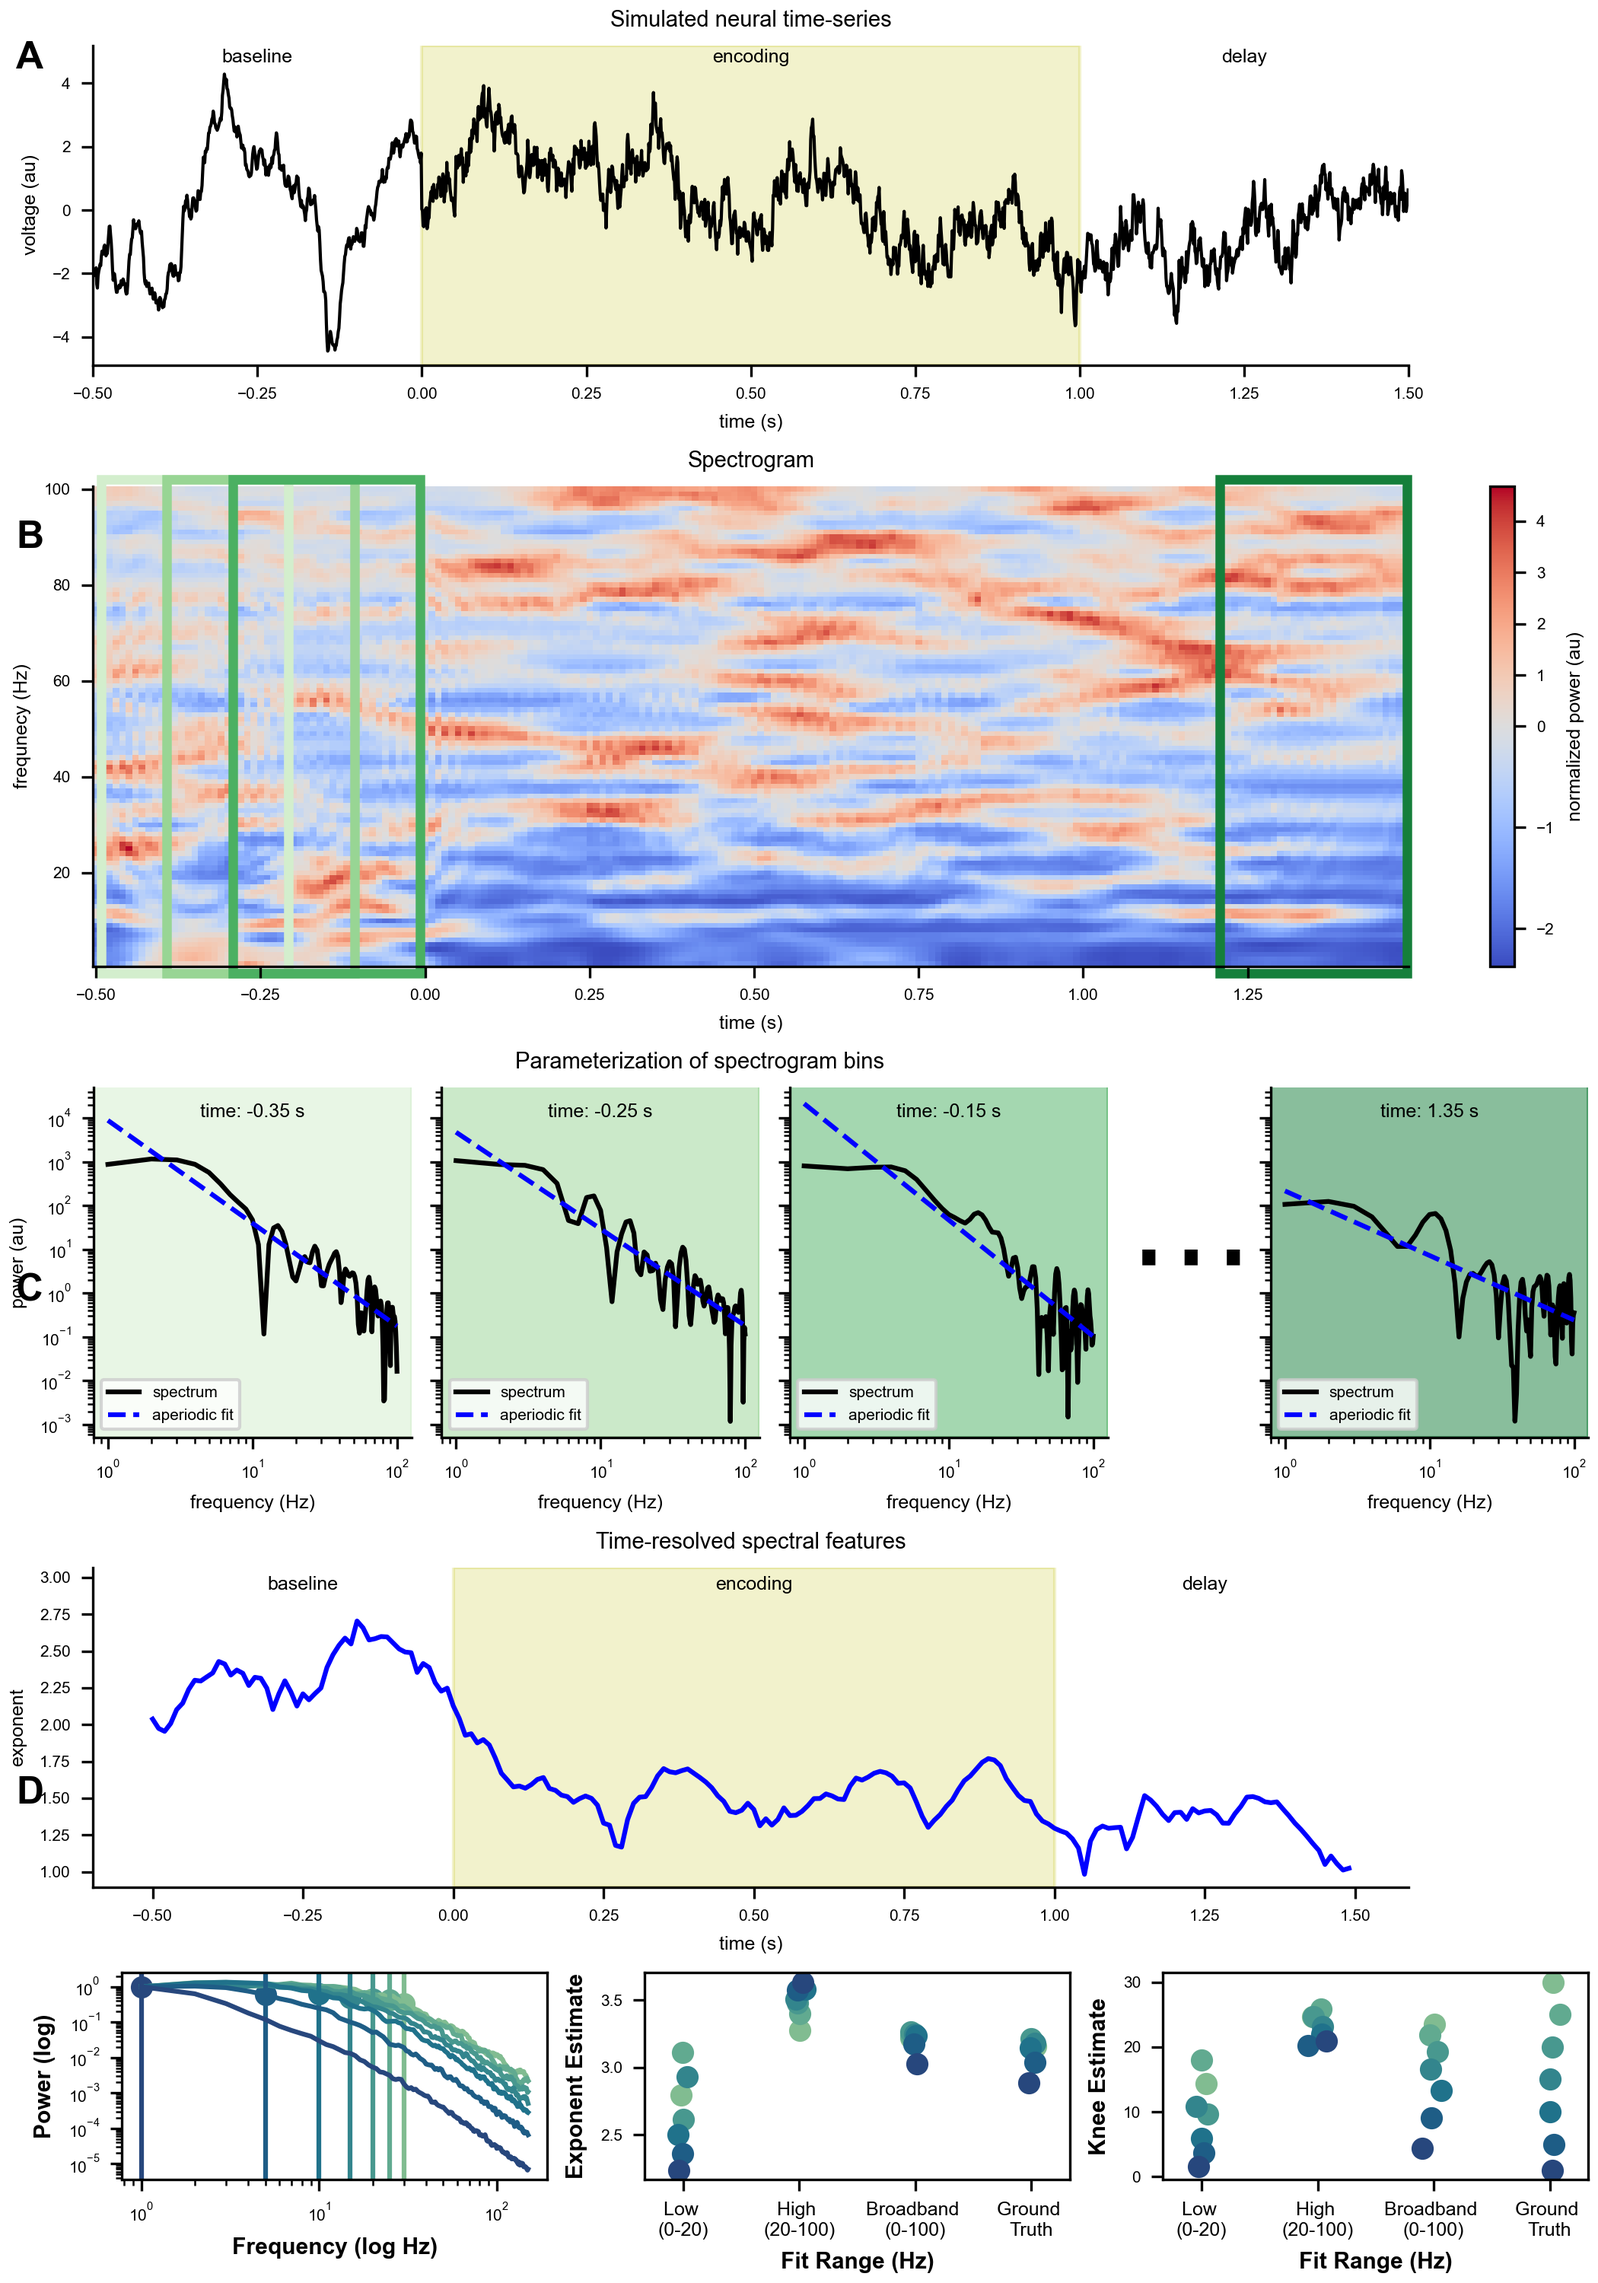
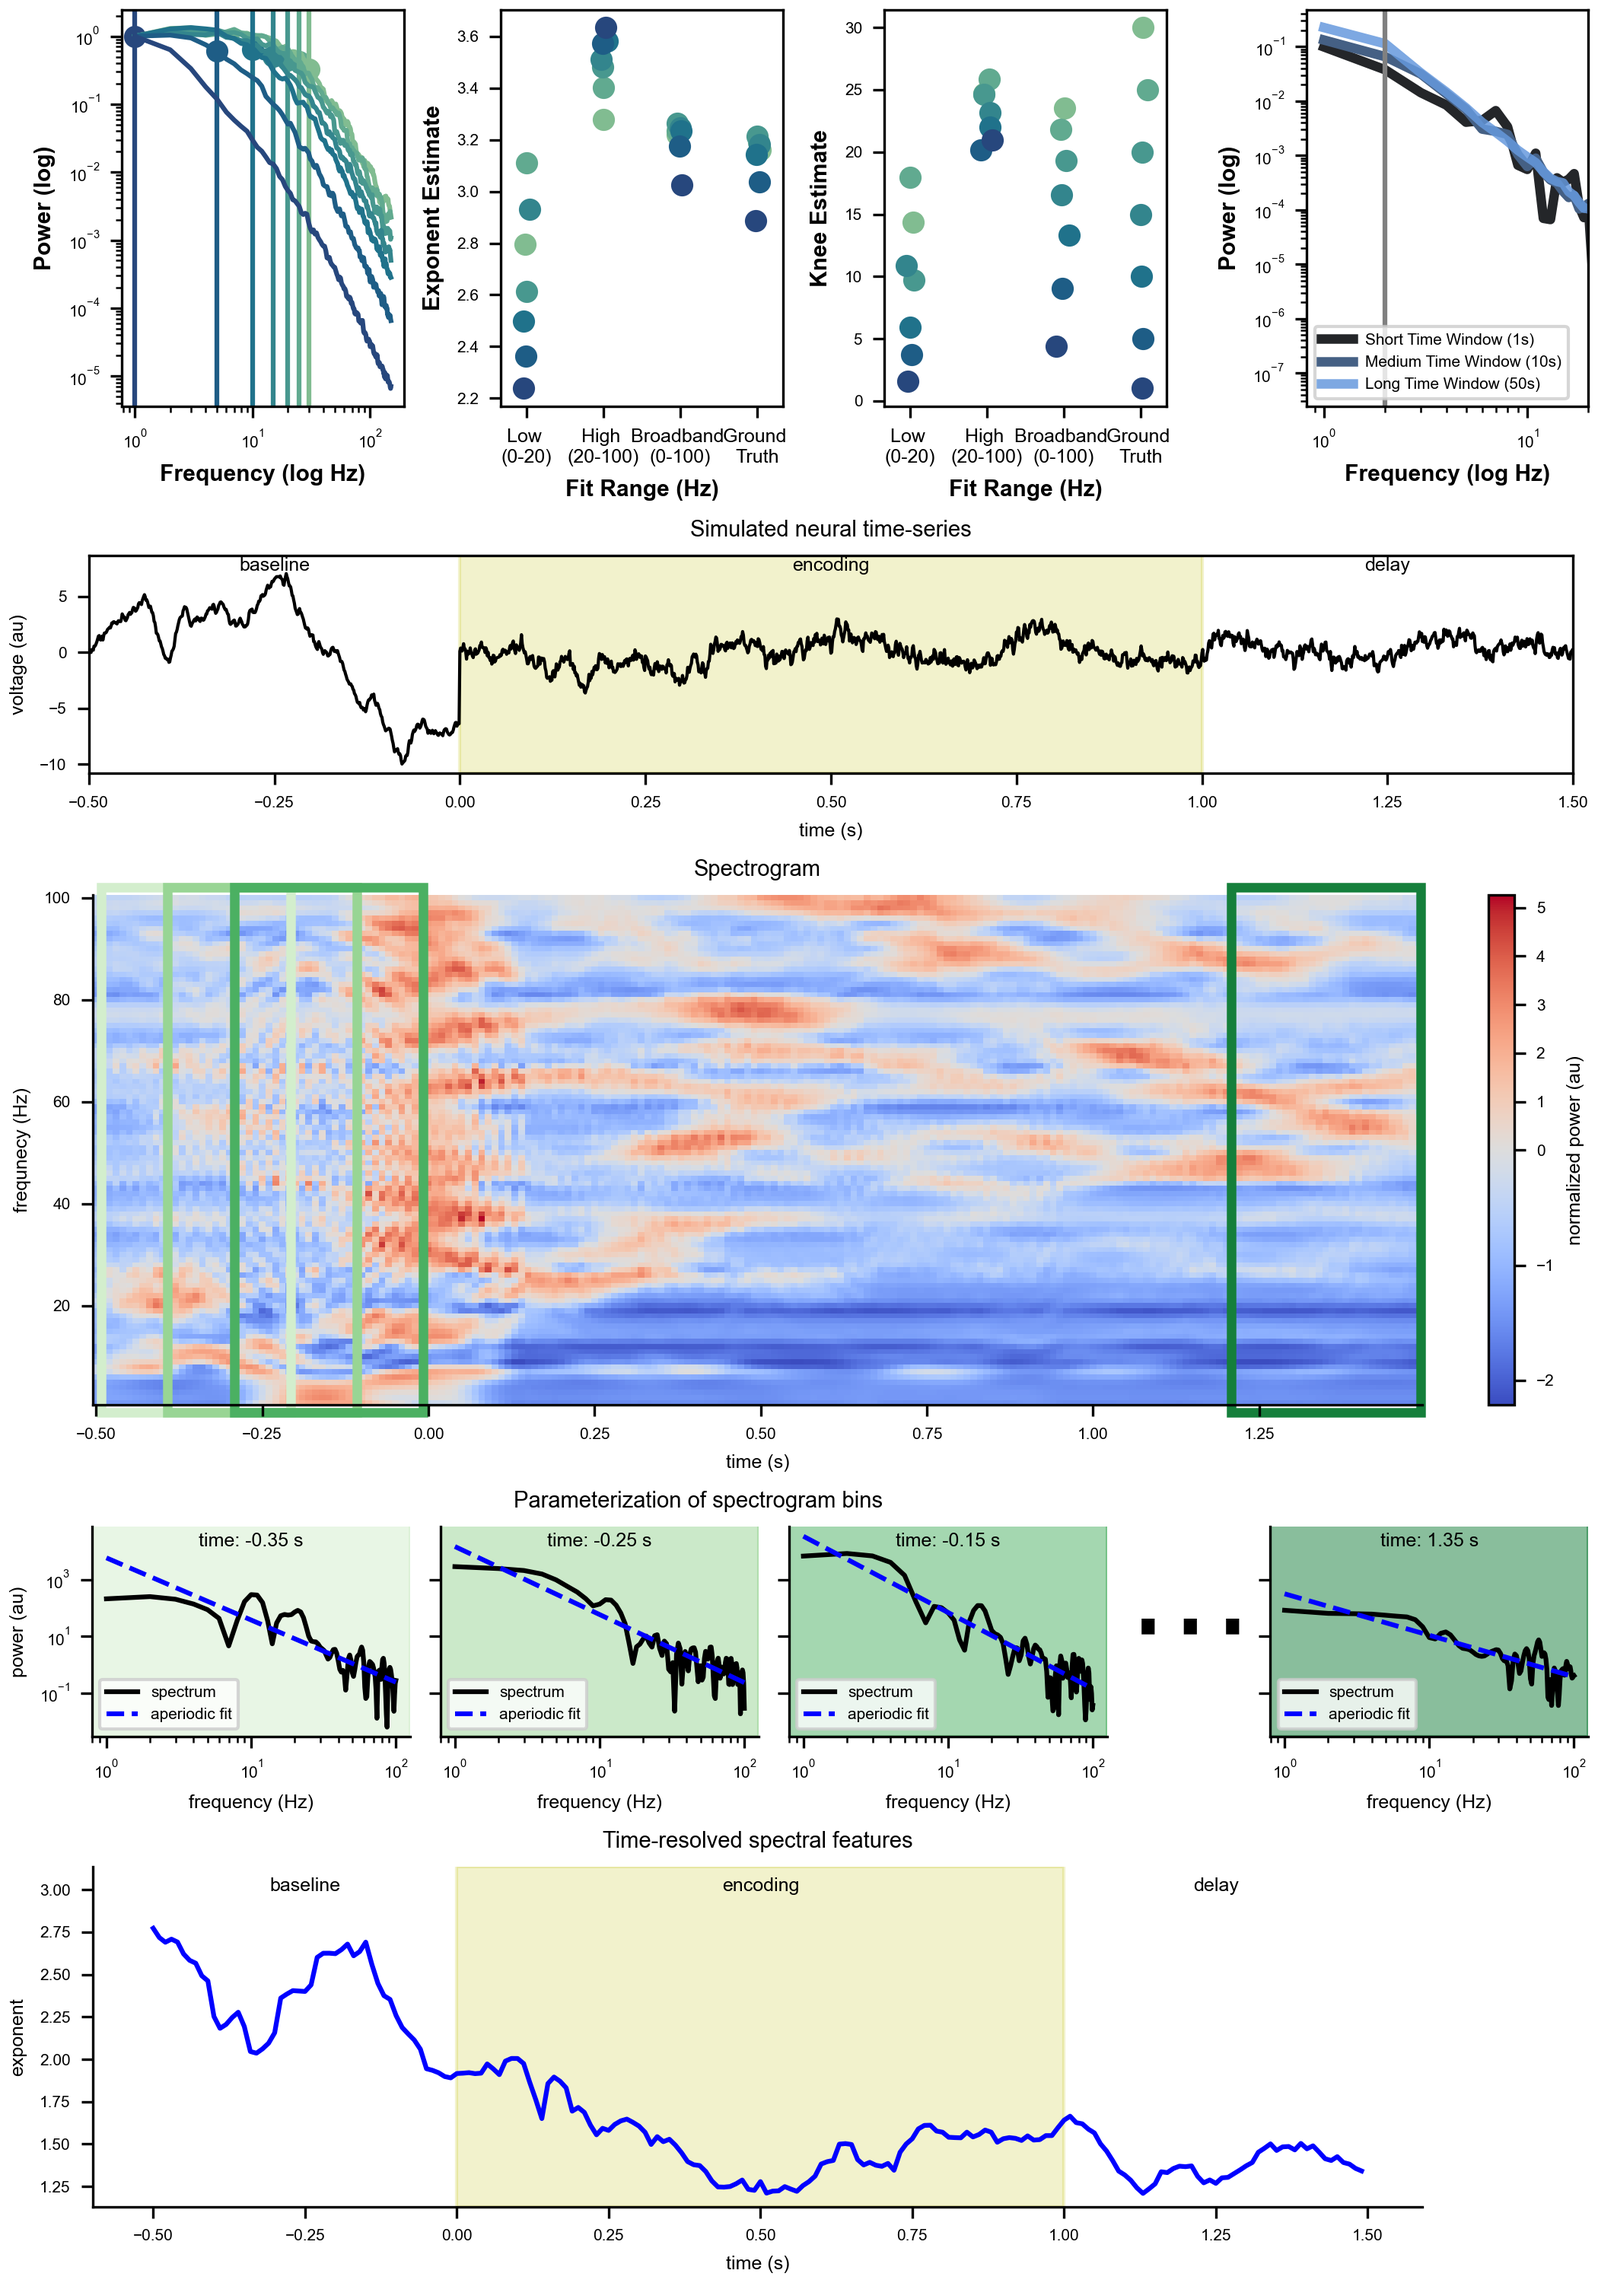
workshopping fig 1 2 combo

diff --git a/scripts/figure_0.py b/scripts/figure_0.py
@@ -47,6 +47,7 @@ plt.style.use('mplstyle/nature_reviews.mplstyle')
 FIGSIZE = [FIGURE_WIDTH, 10]
 TIME_POINTS = [-0.35, -0.25, -0.15, 1.35] # which to plot
 COLORS = sns.color_palette("Greens", len(TIME_POINTS))
+# sns.set_context('talk')
 
 # settings - simulation parameters
 N_SECONDS = 2 # signal duration (s)
@@ -77,18 +78,25 @@ def main():
     # create figure and gridspec
     fig = plt.figure(figsize=FIGSIZE, constrained_layout=True)
     gs = gridspec.GridSpec(figure=fig, ncols=1, nrows=5, 
-                           height_ratios=[0.5, 0.75, 0.75, 0.5, 0.5])
+                           height_ratios=[0.75, 0.5, 0.75, 0.5, 0.5])
+
+    # Add variable freq range plots
+    ax_e = gridspec.GridSpecFromSubplotSpec(1, 4, subplot_spec=gs[0],
+                                            width_ratios=[1, 1, 1, 1])
+    plot_variable_freq_ranges(fig, ax_e)
+    plot_diff_time_wins(fig, plt.subplot(ax_e[3]))
 
     # Simulate and plot bursty oscillation
-    ax_a = fig.add_subplot(gs[0])
-    sig, _ = sim_and_plot_signal(ax_a)
+    ax_a = gridspec.GridSpecFromSubplotSpec(1, 1, subplot_spec=gs[1],
+                                            width_ratios=[1])
+    sig, _ = sim_and_plot_signal(plt.subplot(ax_a[0]))
 
     # Compute and plot TFR
-    ax_b = fig.add_subplot(gs[1])
+    ax_b = fig.add_subplot(gs[2])
     tfr, time_tfr, freqs = compute_and_plot_tfr(sig, fig, ax_b)
 
     # Plot spectral parameterization
-    gs_c = gridspec.GridSpecFromSubplotSpec(1, 5, subplot_spec=gs[2],
+    gs_c = gridspec.GridSpecFromSubplotSpec(1, 5, subplot_spec=gs[3],
                                             width_ratios=[1, 1, 1, 0.001, 1])
     ax_c_0 = fig.add_subplot(gs_c[0])
     ax_c_1 = fig.add_subplot(gs_c[1])
@@ -110,14 +118,9 @@ def main():
     ax_c_x.axis("off")
 
     # Compute and plot sliding window parameters
-    ax_d = fig.add_subplot(gs[3, :])
+    ax_d = fig.add_subplot(gs[4, :])
     ax_d.set_title("Time-resolved spectral features")
     compute_and_plot_sliding_window_params(tfr, time_tfr, freqs, ax=ax_d)
-
-    # Add variable freq range plots
-    ax_e = gridspec.GridSpecFromSubplotSpec(1, 3, subplot_spec=gs[4],
-                                            width_ratios=[1, 1, 1])
-    plot_variable_freq_ranges(fig, ax_e)
 
     # add panel labels
     # fig.text(0.01, 0.97, 'A', fontsize=PANEL_FONTSIZE, fontweight='bold')
@@ -126,7 +129,7 @@ def main():
     # fig.text(0.01, 0.21, 'D', fontsize=PANEL_FONTSIZE, fontweight='bold')
 
     # remove spines
-    for ax in [ax_a, ax_b, *axes_c, ax_d]:
+    for ax in [ ax_b, *axes_c, ax_d]:
         remove_spines(ax)
 
     # # Save
@@ -350,6 +353,36 @@ def plot_variable_freq_ranges(fig, ax_in):
         ax.set_ylabel('Knee Estimate', fontsize='large', weight='bold')
         # ax.set_facecolor('lightgrey')
 
+def plot_diff_time_wins(fig, ax):
+
+    cols = sns.dark_palette('#69d', n_colors=3)
+    # Set some general settings, to be used across all simulations
+    fs = 500
+    n_seconds = 50
+    # Create a times vector for the simulations
+    times = create_times(n_seconds, fs)
+    np.random.seed(35)
+    # Simulate another knee signal, with different exponents & knee
+    knee_ap2 = sim_knee(n_seconds, fs, exponent1=-0.5, exponent2=-2, knee=2)
+
+    freqs, knee_psd1 = compute_spectrum(knee_ap2[times<1], fs)
+    freqs, knee_psd2 = compute_spectrum(knee_ap2, fs)
+    freqs, knee_psd3 = compute_spectrum(knee_ap2[times<10], fs)
+
+    freqs_mask = (freqs>=1) & (freqs<50)
+    knee_psd1, knee_psd2, knee_psd3 = knee_psd1[freqs_mask], knee_psd2[freqs_mask], knee_psd3[freqs_mask]
+    freqs = freqs[freqs_mask]
+
+    # Plot the simulated data, in the frequency domain
+    ax.loglog(freqs, (knee_psd1), label = 'Short Time Window (1s)', color=cols[0], linewidth=3, alpha=1)
+    ax.loglog(freqs, (knee_psd3), label = 'Medium Time Window (10s)', color=cols[1], linewidth=3)
+    ax.loglog(freqs, (knee_psd2), label='Long Time Window (50s)', color=cols[2], linewidth=3, alpha=0.85)
+    ax.set_xlabel('Frequency (log Hz)', fontsize='large', weight='bold')
+    ax.set_ylabel('\nPower (log)', fontsize='large', weight='bold')
+    ax.set_xlim(-5,20)#freqs[-1]+20)
+    plt.axvline(2, color='grey')
+    # ax.set_facecolor('darkgrey')
+    plt.legend()
 
 def add_background(ax, background_color):
 

diff --git a/code/plt_utils.py b/code/plt_utils.py
@@ -4,7 +4,7 @@ Plotting utility functions and settings.
 
 # plotting settings
 FIGURE_WIDTH = 7 # Nature Reviews maximum figure size: 180mm (w) x 215 mm (h)
-PANEL_FONTSIZE = 12
+PANEL_FONTSIZE = 15
 
 
 def remove_spines(ax):
